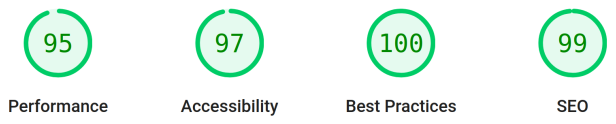
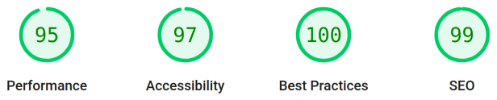
Updated alt codes, images

diff --git a/zola/content/blogging-like-a-rustacean/index.md b/zola/content/blogging-like-a-rustacean/index.md
@@ -41,16 +41,16 @@ We, as developers, enjoy the ability to fix issues if they arise. Since Jekyll w
 Jekyll is one of the best simple, blog-aware solutions. It does a great job at optimizing search engine optimization (SEO), accessibility, and performance out of the box using best practice. But is it *the best*? [Google Lighthouse](https://web.dev/measure/) provides expert analysis on what is *the best*, so it will serve as our analytic framework. When measuring several blogs with Jekyll, off-nominal results were recorded. For evidence, I will pick on [Raph Levien's blog](https://raphlinus.github.io). He is a friend and active publisher in the Rust community, well known for his work on [Xi](https://xi-editor.io/), [Druid](https://github.com/linebender/druid), and [Piet](https://github.com/linebender/piet). Measuring his Jekyll blog is a good example, as there are several points missing from a perfect score. Since Zola makes no content assumptions, we can attack these last few points in a Zola theme and abuse the finer control given to us.
 
 <div align="center">
-<img alt="Raph's Lighthouse metrics" src="raph_seo.png" style="max-height: 100px;"/>
+{{ img(path="./raph_seo.png", alt="Raph's Lighthouse metrics") }}
+</div>
 
 *[Click here for the full report](raphlinus.github.io_2022-05-15_10-46-19.html)*
-</div>
 
 ## Security
 One metric our previous analytic framework does not measure is security. Thankfully Mozilla cared to create the [Mozilla Observatory](https://observatory.mozilla.org/) as an analytic security framework for websites. We find that Jekyll fails to take steps to improve security for common hosting solutions. Generally speaking, web security guarantees are provided by the web server, and Jekyll leaves up to you, which is impossible if you don't control the hosting servers. When measuring various Jekyll blogs, the average score has always been graded **F**. This oversight is an opportunity for improvement using Zola, which we will dig into.
 
 <div align="center">
-<img alt="Raph's Observatory metrics" src="raph_security.png" style="max-height: 300px;"/>
+{{ img(path="./raph_security.png", alt="Raph's Observatory metrics") }}
 </div>
 
 # Abridge
@@ -76,10 +76,10 @@ Abridge is, in my opinion, ready for wide adoption. Specifically, this theme is 
 <tr>
 <td>
 <div align="center">
-    <img alt="Abridge Lighthouse score" src="abridge_seo.png" style="max-height: 300px;"/>
+{{ img(path="./abridge_seo.png", alt="Abridge's Lighthouse score") }}
+</div>
 
 *[Click here for the full report](jieiku.github.io_2022-05-17_18-56-57.html)*
-</div>
 </td>
 <td>
 
@@ -105,7 +105,7 @@ Security was also improved for common free hosting. One of the complex issues wi
 <tr>
 <td>
 <div align="center">
-    <img alt="My observatory score" src="my_security.png" style="max-height: 300px;"/>
+  {{ img(path="./my_security.png", alt="My Observatory score") }}
 </div>
 </td>
 <td>
@@ -163,7 +163,7 @@ Once your deployment is working, I have some recommendations for creating conten
 # Exercise
 Align with a trend I'm patternizing, I include an exercise with an opportunity to join a technical community of likeminded individuals, if you want to join.
 
-The exercise is to start a Zola site using the Abridge theme, deployed with CI such as GitHub Actions. If you already have a blog or static site, convert your current deployment. Write your site's URL in a comment on [the merge request for this blog](https://github.com/simbleau/simbleau.github.io/pull/9), and for the first three individuals, I will present an invitation only you can accept. No hints this time, sorry!
+The exercise is to start a Zola site using the Abridge theme, deployed with CI such as GitHub Actions. If you already have a blog or static site, convert your current deployment. Write your site's URL in a comment on [the merge request for this blog](https://github.com/simbleau/simbleau.github.io/pull/9), and for the first three individuals, I will present an invitation only you can accept. You may find a useful guide to get started [here](https://github.com/Jieiku/abridge#quick-start).
 
 Farvel! Until next time.
 

diff --git a/zola/content/a-look-at-(r)age/index.md b/zola/content/a-look-at-(r)age/index.md
@@ -29,12 +29,9 @@ How does age measure up to this definition? Well, age uses a native backend of X
 Age emits terse 63 character public keys with support for multiple pluggable recipients and passphrases. This means multiple keys can decrypt a file. Age also provides excellent interoperability with existing standards, such as supporting SSH public keys as recipient types. It does this by injecting a header on the encrypted file with recipient keys and types[^age_format]. These tags are, however, embedded in the file. Thankfully, the native X25519 backend is able to obfuscate this information. However with SSH keys, it is possible to track files encrypted to a specific public key. I advise using SSH keys only as a convenience.
 
 # Age in Rust
-[![crates.io](https://img.shields.io/crates/v/age?style=flat-square)](https://crates.io/crates/age)
-[![docs.rs](https://img.shields.io/docsrs/age/latest?style=flat-square)](https://docs.rs/age/latest/age)
-
 Age was originally a Go library, but it was quickly ported to Rust as an interoperable equivalent, called *rage*. In other words, the binary executable rage can replace the original executable simply with `cargo install rage` and `alias age=rage` ([other platforms](https://github.com/str4d/rage#installation)).
 
-Developers in Rust wanting to work with age are provided the [*age*](https://crates.io/crates/age) library crate, which nice features like async support. Those interested in WASM support can look at the WASM example, [*wage*](https://github.com/str4d/wage).
+Developers in Rust wanting to work with age are provided the [*age*](https://crates.io/crates/age) library crate, which nice features, [documentation](https://docs.rs/age/latest/age) like async support. Those interested in WASM support can look at the WASM example, [*wage*](https://github.com/str4d/wage).
 
 The examples on docs are pretty easy to follow.
 
@@ -103,7 +100,7 @@ key2:
 
 This is a gain for open-source initiatives, because config files and private configurations can be shared publicly with safety and better direction. For example, [my home kubernetes configuration](https://github.com/simbleau/home-ops) matter is completely public and open source, with [secrets encrypted with SOPS](https://github.com/simbleau/home-ops/tree/main/vpn). I also recommend [pre-commit](https://pre-commit.com/) with a hook to [forbid secrets](https://github.com/zricethezav/gitleaks) accidentally being committed.
 
-## SOPS + Visual Studio (VS) Code
+## SOPS + VSCode
 SOPS has the benefit of integrating your favorite `$EDITOR` (default is `vim`), but many, including Rustaceans, use *VSCode*. Thankfully, there's a plugin to support realtime editing of SOPS encrypted files: [signageos.signageos-vscode-sops](https://marketplace.visualstudio.com/items?itemName=signageos.signageos-vscode-sops). You'll need to create a `.sops.yaml` file in your repository base which declares the regex pattern of your SOPS files ([example](https://github.com/simbleau/home-ops/blob/main/.sops.yml)).
 
 A toy example to match files with `.sops.` anywhere in the filename, e.g. `example.sops.yml`
